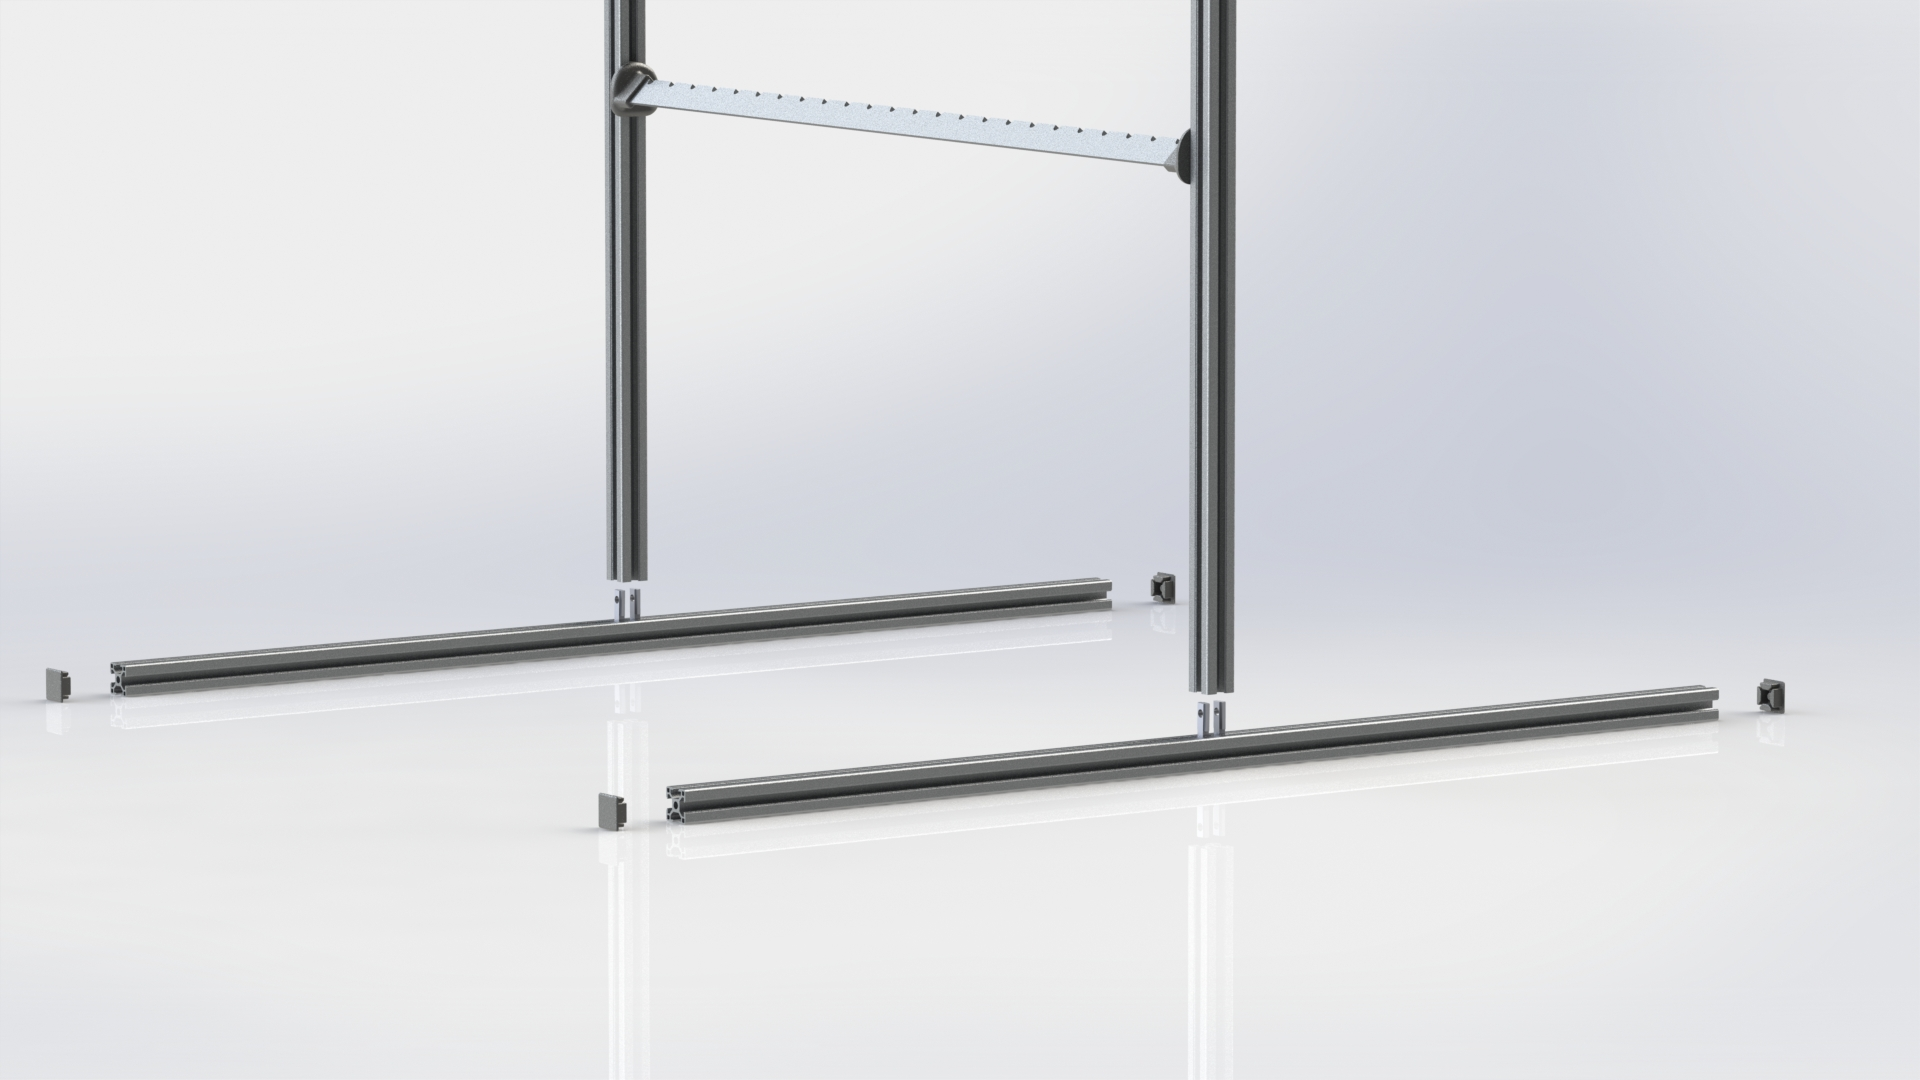
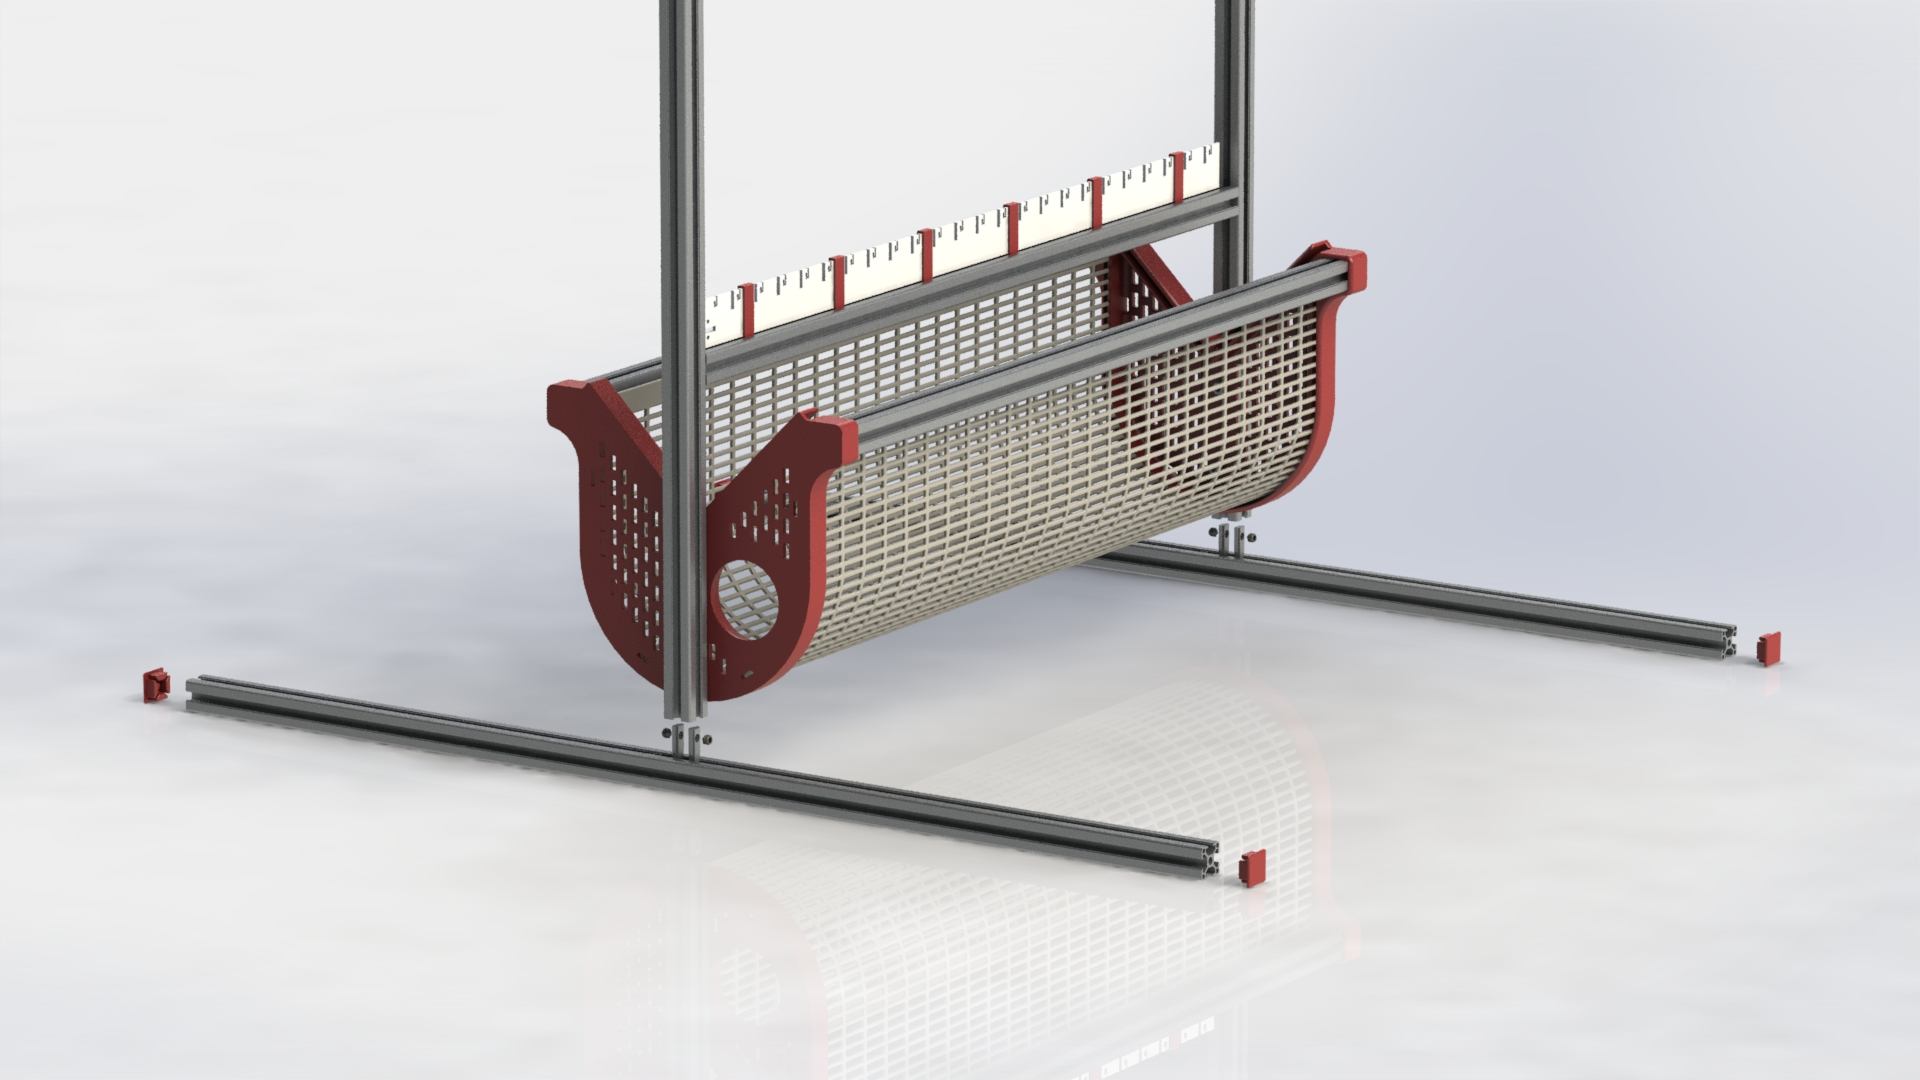
construction updated

Changed region(s): [[0.0, 0.0, 0.9375, 0.825]]

diff --git a/Harpe ruches/Montage/Construction.md b/Harpe ruches/Montage/Construction.md
@@ -1,48 +1,46 @@
 # Assemblage de la harpe
 
 
-1/ Tracez la position des trous à percer dans l'équerre égale en vous aidant du circuit imprimé. 
-   Utilisez un forêt de 3mm pour percer un premier trou puis un forêt de 6mm pour percer le trou final. 
-
-2/ Commencez par insérer les 6 coulisseaux supportant le circuit imprimé dans le profilé de 660mm.
+1/ Commencez par insérer les 6 coulisseaux supportant le circuit imprimé dans le profilé de 660mm et les 6 coulisseaux supportant le cicuit imprimé dans le profilé de 620mm.
 
 ![This is an image](https://github.com/Ratamuse/Harpe/blob/main/Harpe%20ruches/Images/Harpe2.JPG)
 
-3/ Fixez ce profilé aux deux profilés de 1050mm en glissant les équerres du coté interieur (fils).
-   Enfoncez les capuchons en bout de profilé. 
+2/ Fixez ces deux profilés aux deux profilés de 1050mm à l'aide des équerres.
+   Enfoncez les capuchons en bout du profilé de 660mm. 
 
 ![This is an image](https://github.com/Ratamuse/Harpe/blob/main/Harpe%20ruches/Images/Harpe5.JPG)
 
-4/ Fixer les supports de l'équerre égale avec un tasseau lourd et une vis M5x12.
+3/ Montez le bac de récupération en enfoncant les deux profilés de 610mm dans les encoches des flasques. Puis à l'aide de coliers en plastique fixez une des grilles à reine dans une flasque puis faite de même avec l'autre grille à reine et l'autre flasque. Utilisez d'autres coliers pour aligner et maintenir en place les deux grilles.
+   Vissez les vis et écrous lourds sans les serrer pour faciliter la mise en place dans les profilés de 1050mm. 
+  
+![This is an image](https://github.com/Ratamuse/Harpe/blob/main/Harpe%20ruches/Images/Harpe3.JPG)
+
+4/ Percez 2 trous à l'arrière de la boîte de jonction afin de fixer les vis et écrous lourds. Glissez la boîte de jonction sur le profilé de 1050mm coté trous de connexion électrique du circuit imprimé.
+
+![This is an image](https://github.com/Ratamuse/Harpe/blob/main/Harpe%20ruches/Images/Harpe9.JPG)  
+
+
+5/ Glissez le bac de récupération entre les deux montants de 1050mm et serrez les vis au niveau désiré. 
+   Pour les pieds de la harpes, fixez les deux profilés de 750mm à l'aide des 4 equerres restante. Enfoncez les 4 capuchons au bout des profilés de 750mm. 
+ 
+![This is an image](https://github.com/Ratamuse/Harpe/blob/main/Harpe%20ruches/Images/Harpe4.JPG)  
+
+6/ Accrochez les ressorts sur le circuit imprimé supérieur puis accrochez les fils entre les ressorts et le circuit imprimé inférieur. Réglez la hauteur du profilé de 610mm en fonction de la longueur des fils désirée.   
+   Une fois tous les fils accrochés, descendez doucement le profil de 610mm en desserant les vis des équerres. Resséré les vis une fois les ressorts légèrement tendus. Puis ajustez la tension des fils en utilisant une pince zig zag.
 
 ![This is an image](https://github.com/Ratamuse/Harpe/blob/main/Harpe%20ruches/Images/Harpe6.JPG)
 
-5/ Insérer en force l'équerre égale dans les supports imprimés 3D
+9/ Coupez un fil électrique de 2x1.5mm². D'un coté passez le dans la boîte de jonction par un presse étoupe si vous en avez ou percé en trou dans la membrane de la boîte (plutôt coté bas). Soudez l'autre coté du fil au circuit imprimé. Vous pouvez percer un trou de 5mm dans le profilé de 1050mm pour faire passer le fil. 
 
-6/ Insérer et centrez deux equerres dans chaque profilé de 750mm puis fixez les sur les profilés de 1050mm.
-   Enfoncez les capuchons en bout de profilés. 
- 
-![This is an image](https://github.com/Ratamuse/Harpe/blob/main/Harpe%20ruches/Images/Harpe4.JPG)
+10/ Coupez une bouteille de "Badois" ou "San Pelegrino" à 10cm du goulot puis collez la avec de l'araldite ou colle cyano à la flasque prévue à cet effet. Percez un trou du diamètre du goulot une autre bouteille plastique et clipsez la au goulot.  
 
-7/ Accrochez les ressorts sur le circuit imprimé puis insérez les fils par les trous de l'équerre égale et les accrocher à l'autre bout des ressorts. 
-   Une fois tous les fils accrochés, descendez doucement l'équerre égale en desserant les supports d'équerre. Resséré les vis une fois les ressorts légèrement tendus. Puis ajustez la tension des fils en utilisant une pince zig zag.
-
-8/ Accrochez la boite de jonction sur le montant de 1050mm coté trous de connexion du circuit imprimé. 
-
-![This is an image](https://github.com/Ratamuse/Harpe/blob/main/Harpe%20ruches/Images/Harpe9.JPG)
-
-9/ Soudez un fil électrique de 2x1.5mm2 sur le circuit imprimé 
-
-   
+![This is an image](https://github.com/Ratamuse/Harpe/blob/main/Harpe%20ruches/Images/Harpe10.JPG)
 
 # Fabrication des fils
 
-Sur une planche de bois, plantez deux clous (sans tête) à une distance correspondant à la longueur de fil souhaitée.
-Prenez votre bobine de fil et insérez un embout d'aiguille.
-Faite une boucle que vous serrerez dans un étaux.
-Utilisé un clou pour vriller le fil et former une boucle. Un moyen rapide est de tordre un clou et de l'utiliser sur une perceuse.
-Une fois la boucle formée, insérez la dans le premier clou sur la planche, tirez le fil jusqu'au deuxième clou, prenez un peu de marge, coupez le fil et faite un noeud autour du deuxième clou.
-De cette manière, les fils auront à peut près tous la même longueur.     
+Sur une planche de bois, plantez deux clous (sans tête) à une distance correspondant à la longueur de fil souhaitée. Puis servez vous en pour créer des boucles à distance constante. 
+Une petite vidéo vallant mieux qu'un long discours:
+
 
 
 
